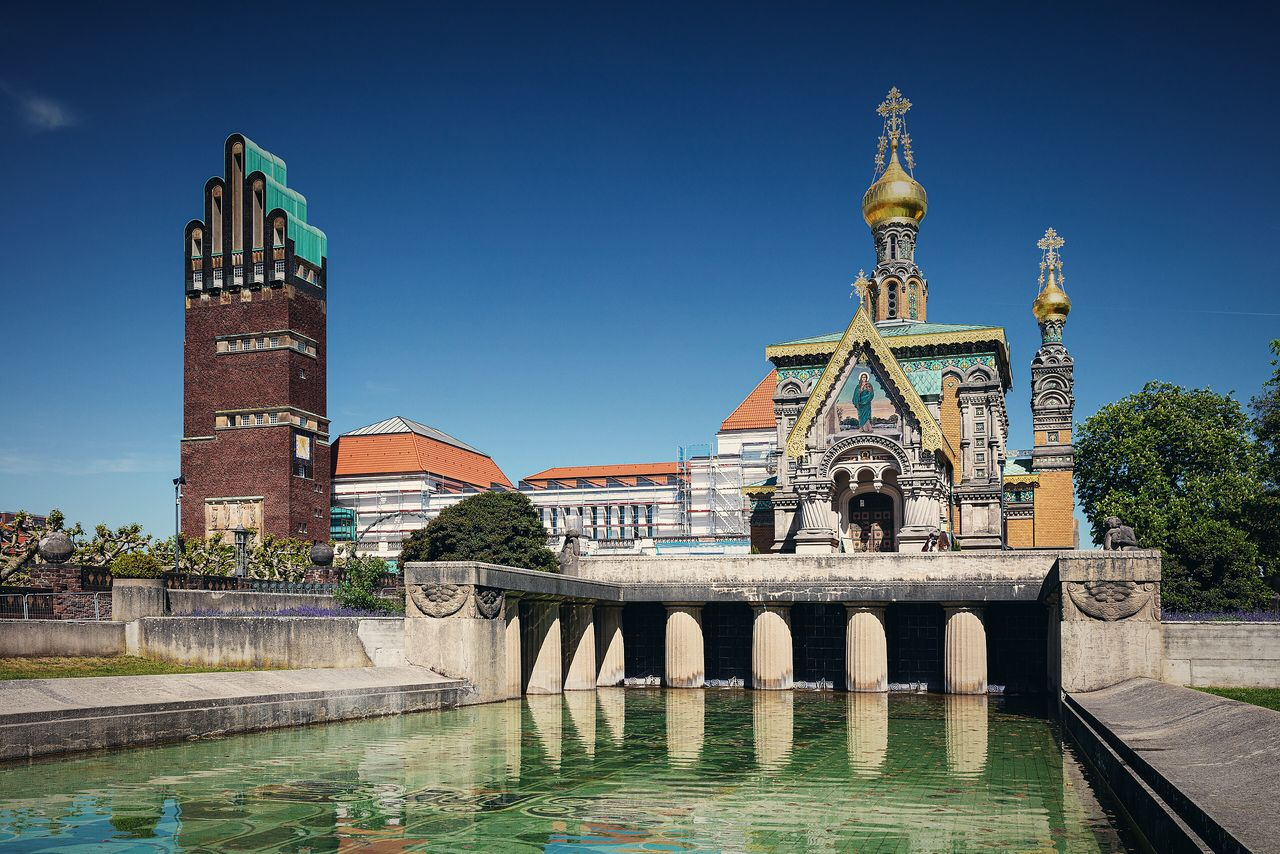
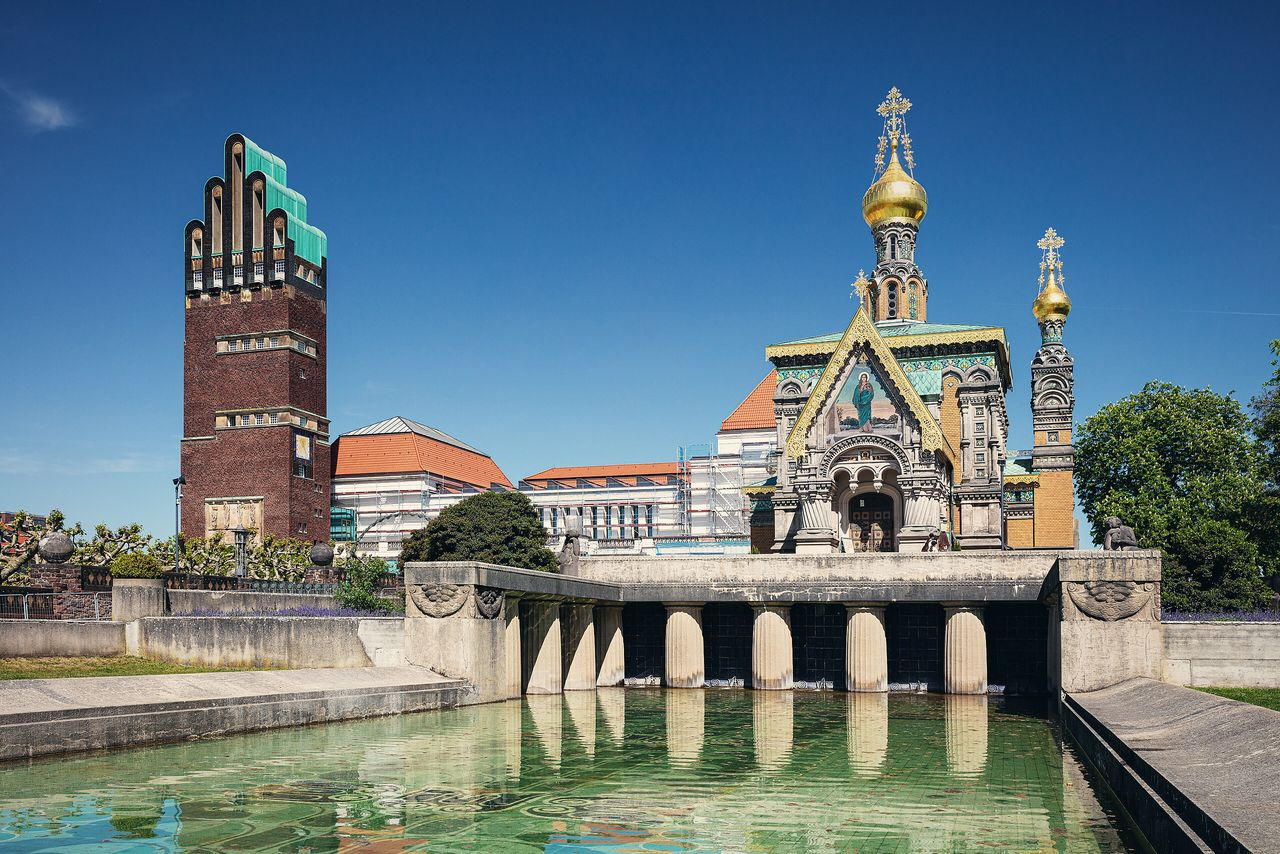
Lighten hero photo grade and overlay so the tower stays visible

diff --git a/src/styles/global.css b/src/styles/global.css
@@ -11,8 +11,8 @@
   --color-secondary: #777777;
   --color-footer: #191717;
   --hero-overlay:
-    linear-gradient(to top, rgba(8, 10, 14, .88) 0%, rgba(8, 10, 14, .68) 42%, rgba(8, 10, 14, .2) 70%, rgba(8, 10, 14, .45) 100%),
-    linear-gradient(to right, rgba(8, 10, 14, .55) 0%, rgba(8, 10, 14, 0) 65%);
+    linear-gradient(to top, rgba(8, 10, 14, .78) 0%, rgba(8, 10, 14, .42) 30%, rgba(8, 10, 14, .08) 58%, rgba(8, 10, 14, 0) 82%, rgba(8, 10, 14, .32) 100%),
+    linear-gradient(to right, rgba(8, 10, 14, .38) 0%, rgba(8, 10, 14, 0) 55%);
 
   --radius-card: 30px;
   --radius-hero: 32px;
@@ -162,7 +162,7 @@ h3 { font-size: var(--fs-h3); line-height: 1.1; letter-spacing: -0.03em; }
   display: flex; color: #fff;
 }
 .hero-media { position: absolute; inset: 0; height: 100%; border-radius: 0; z-index: -2; object-position: 22% 35%; }
-.hero h1, .hero-kicker, .hero-lead { text-shadow: 0 2px 24px rgba(0, 0, 0, .35); }
+.hero h1, .hero-kicker, .hero-lead { text-shadow: 0 1px 3px rgba(0, 0, 0, .35), 0 4px 32px rgba(0, 0, 0, .45); }
 .hero-credit {
   position: absolute; right: clamp(28px, 3vw, 44px); bottom: 12px; z-index: 1;
   font-size: 11px; line-height: 1.3; color: rgba(255, 255, 255, .55); text-decoration: none;
